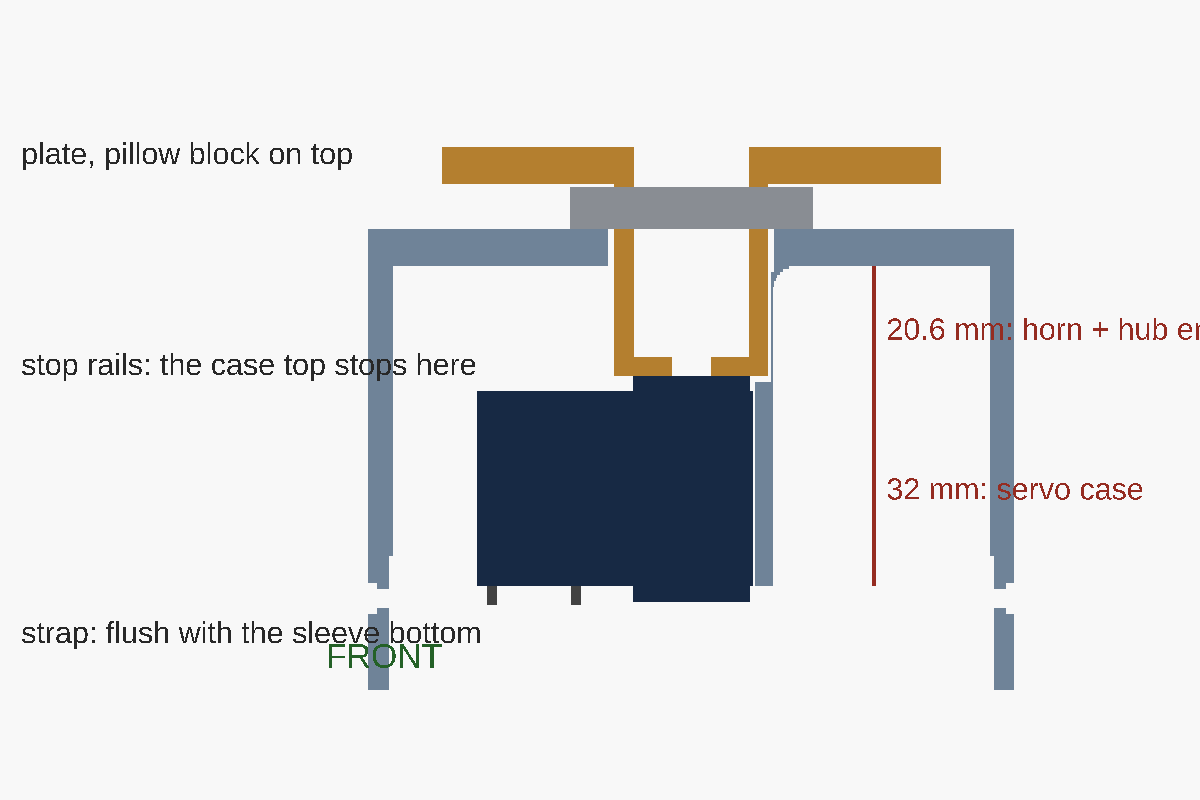
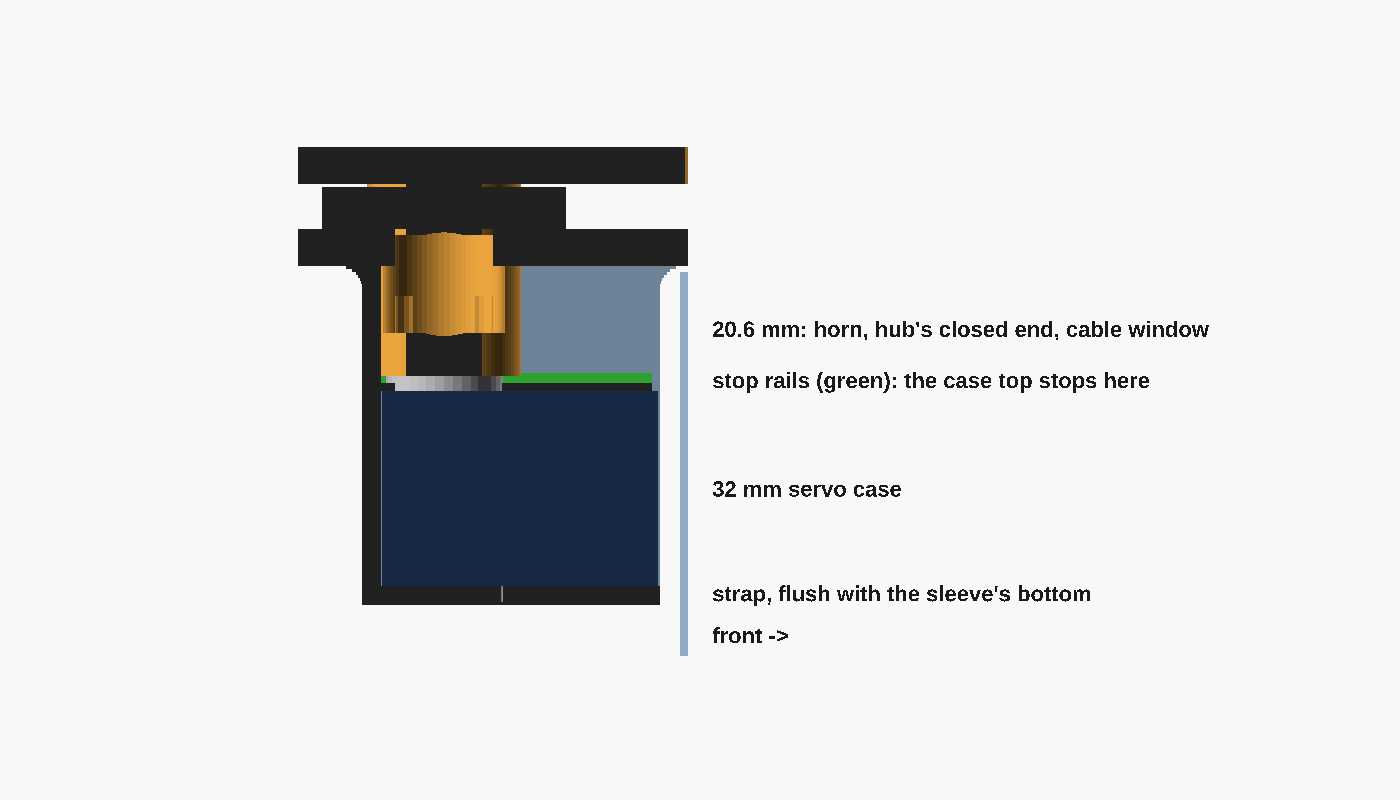
Skirt v4: restore the pan servo's stop rails (the pocket cut removed them); rail shims for skirts already printed

Changed region(s): [[0.0, 0.1562, 1.0, 0.875]]

diff --git a/hardware/cad/docs/build_photos/README.md b/hardware/cad/docs/build_photos/README.md
@@ -102,9 +102,12 @@ Source: `34_turret_to_lid_exploded.scad` (in this folder).*
    First plug the lead from the servo adapter into one of its two bottom sockets (the other is for the tilt servo, 3.10).
    The sleeve is **52.6 mm deep and the servo case only 32**: the servo does *not* go up to the plate. It stops on two stop rails on the sleeve's side walls, 20.6 mm below the plate,
    which leaves room above it for the horn, the hub's closed end and the hub's cable window. Its bottom then sits flush with the sleeve's bottom edge, where the strap goes.
+   **Skirts printed before 2026-11-21 have no stop rails** (a modelling slip cut them out): the servo slides up to the plate, and the hub, turret and head could be lifted
+   with it. Print `base_rail_shim_v4.3mf` (two 2.8 x 24.6 x 20.4 mm bars) and push one up each side wall of the sleeve, against the plate's underside, before the servo goes in;
+   the servo's case then stops on them and traps them (no glue). Keep them at the sleeve's open (front) end, clear of the hub's opening. Re-printed skirts have the rails.
 
    ![Skirt and pan servo, section](35_render_skirt_servo_section.png)
-   *35: section along the pan servo (front to the left): plate and pillow block on top, the hub's closed end on the horn, the servo case against the stop rails, the strap flush with the sleeve's bottom.*
+   *35: section along the pan servo (front to the left): plate and pillow block on top, the hub's closed end on the horn, cut through a stop rail (green), the servo case against it, the strap flush with the sleeve's bottom.*
 3. **Pan strap** under the servo, M3 into the inserts; the plugs come out through the strap's cutout.
 4. **Hub.** Pan servo torque off. Hub down through the bearing onto the horn with its **cable window facing the front** (over the top of the pan servo, toward the sleeve's open end:
    the sleeve is closed round the hub on the other three sides). 4 x M3 down the open tube through the hub's floor into the horn. The flange should rest on the bearing and the hub turn freely.
